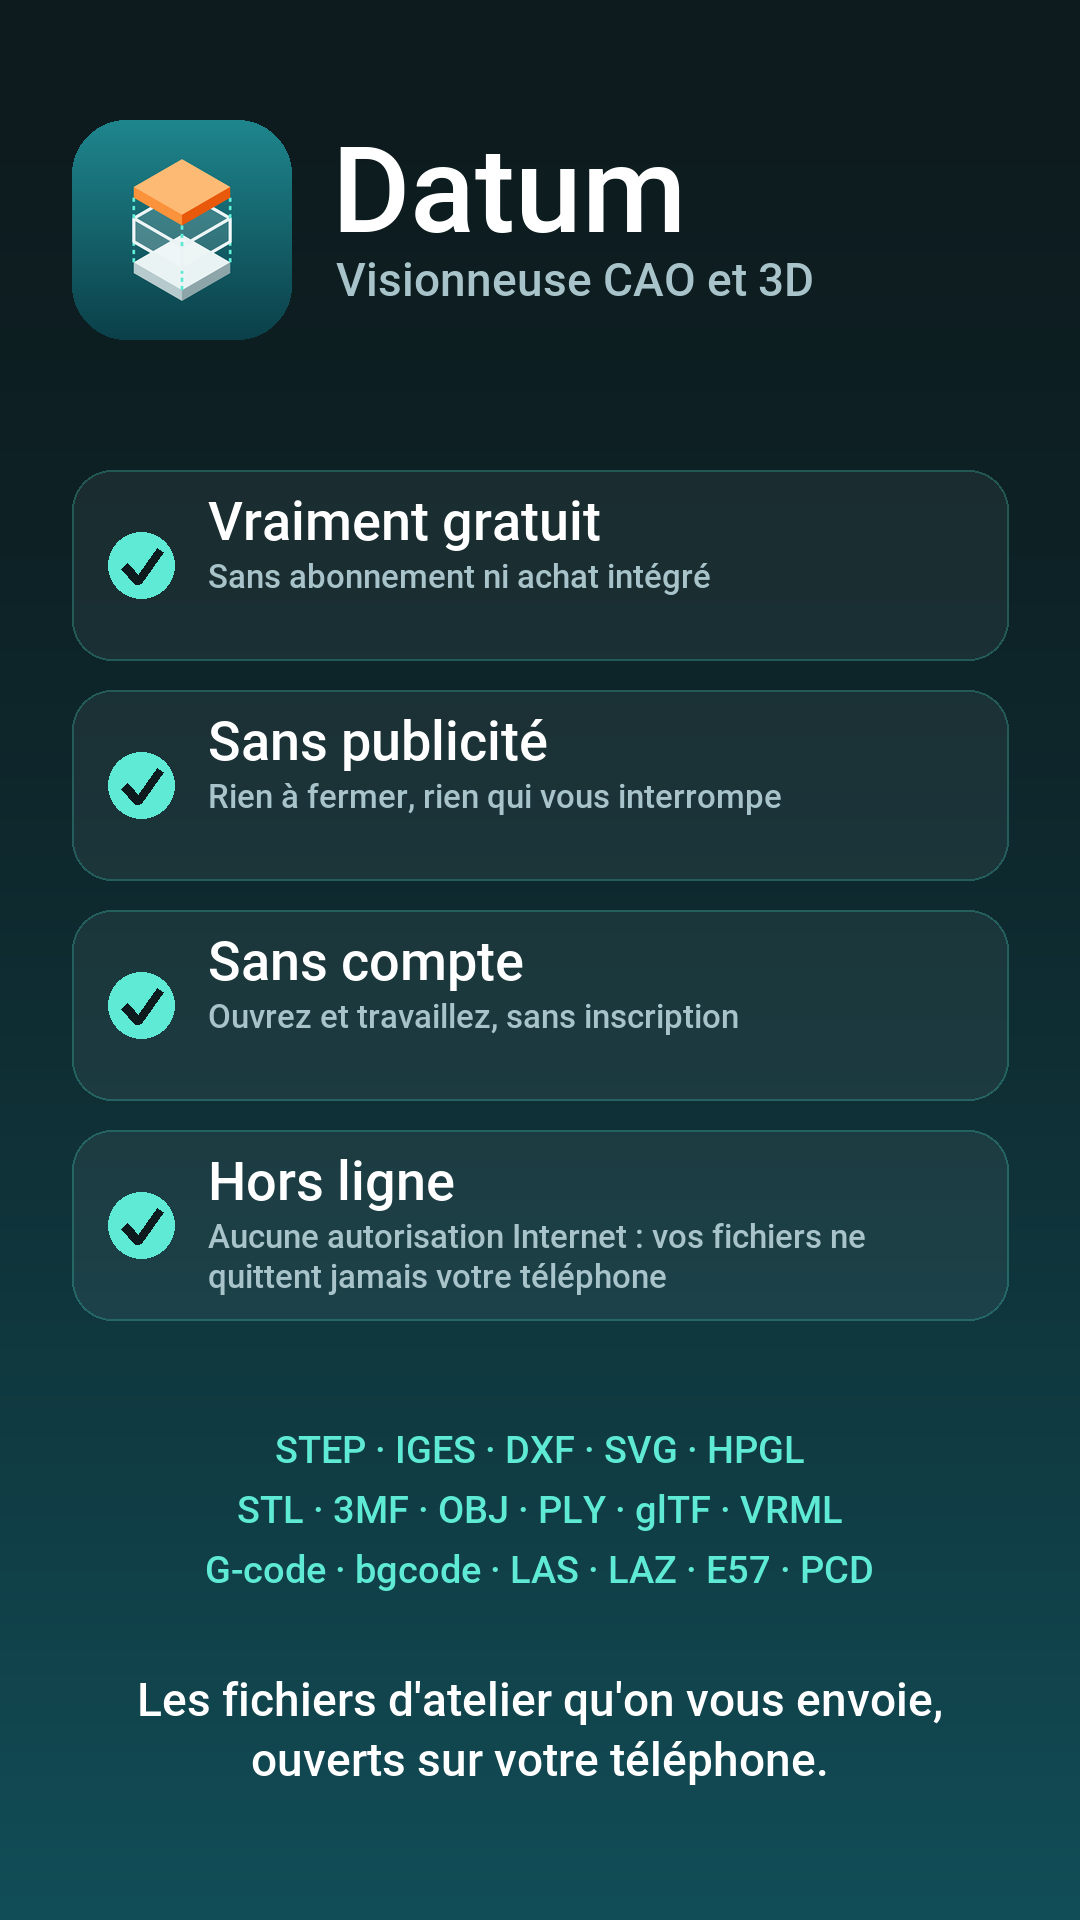
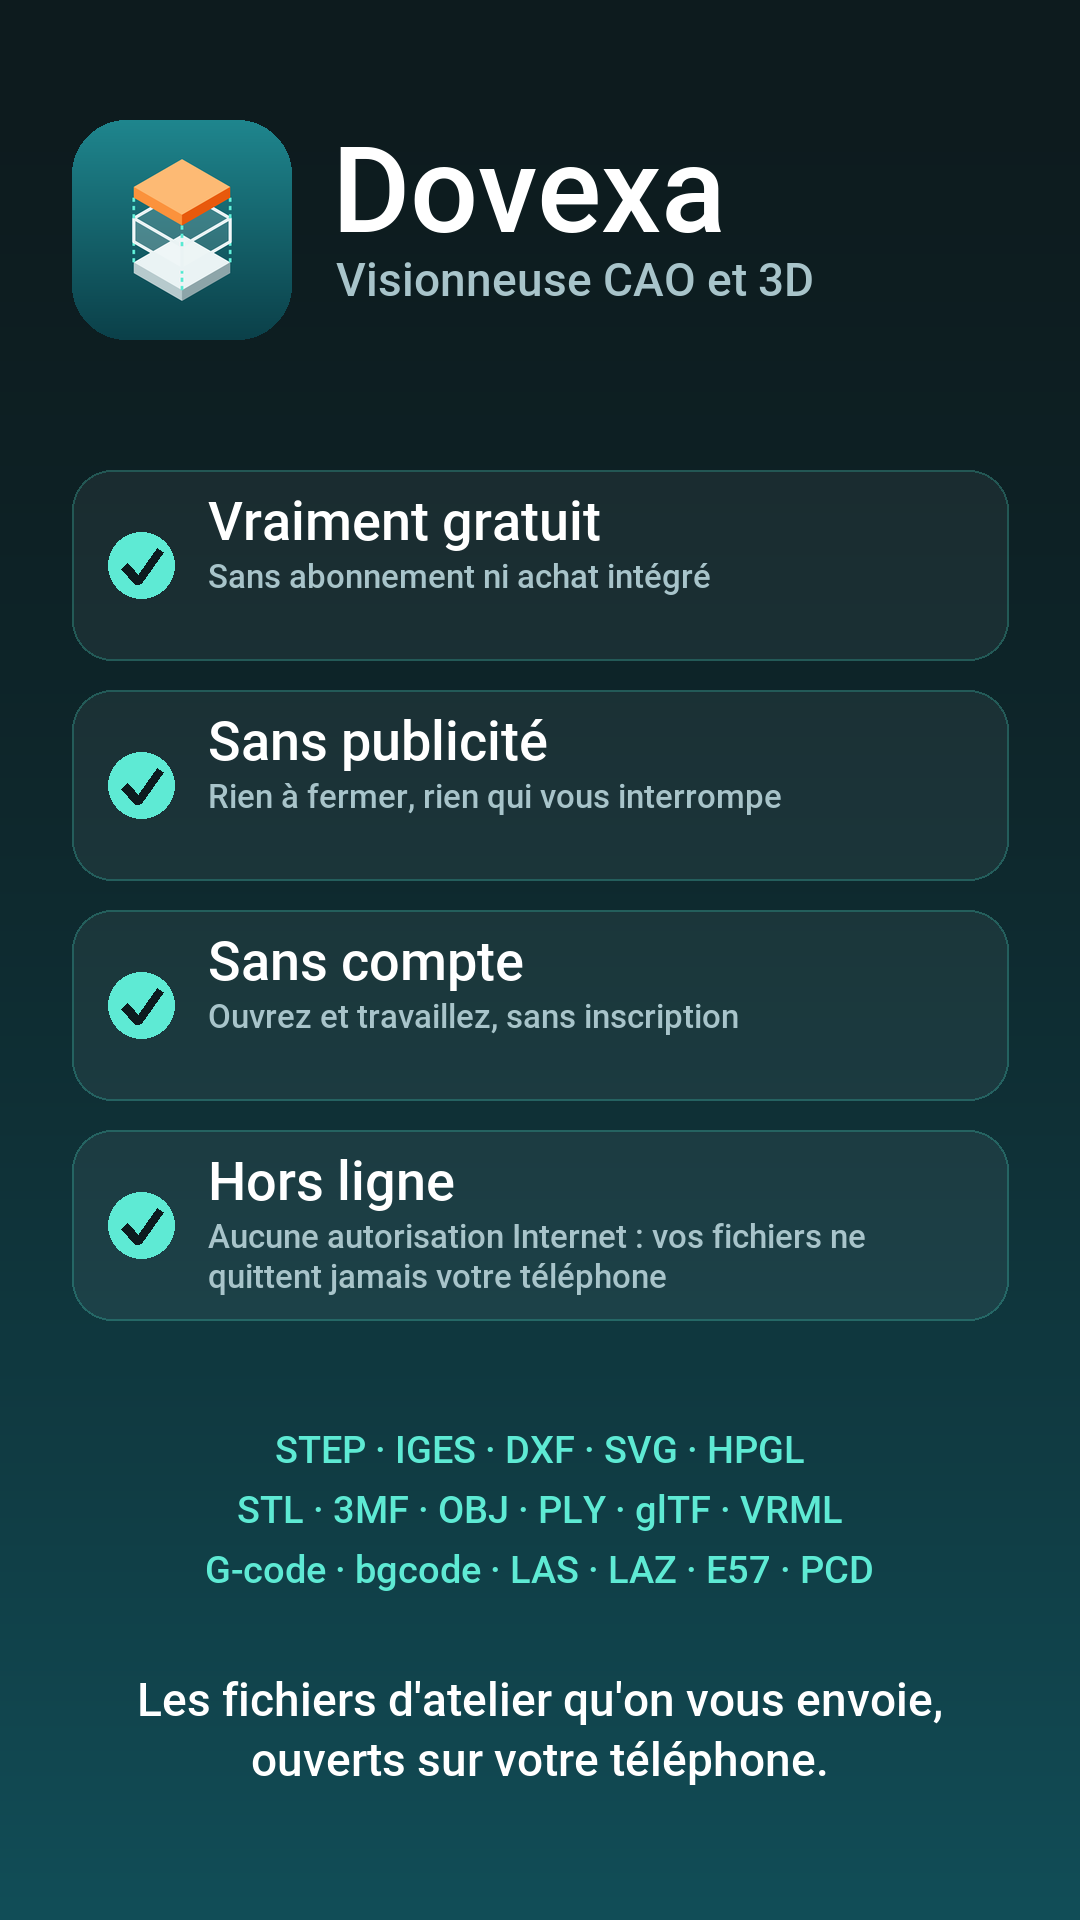
Capturas 08 con el nombre Dovexa y URL pública de la política de privacidad

Changed region(s): [[0.3667, 0.0625, 0.6722, 0.125]]

diff --git a/store/ficha_play.md b/store/ficha_play.md
@@ -26,7 +26,7 @@ Fuente única: `ficha_es.py` (valida longitudes) → `ficha_es.txt`. Idioma de l
 - IA: la app no incluye contenido generado con IA.
 
 ## Política de privacidad
-Texto en `politica_privacidad.md`. URL pública: (pendiente de publicar; Google Doc publicado).
+Texto en `politica_privacidad.md`. URL pública: https://docs.google.com/document/d/12QDC-PplWexk-ufmb_U-96DR75kX9c7Lzy73Bm8PY7w/mobilebasic.
 
 ## Prueba cerrada
 Pista «Prueba cerrada - Alpha», país España, testers añadidos en Play Console.
